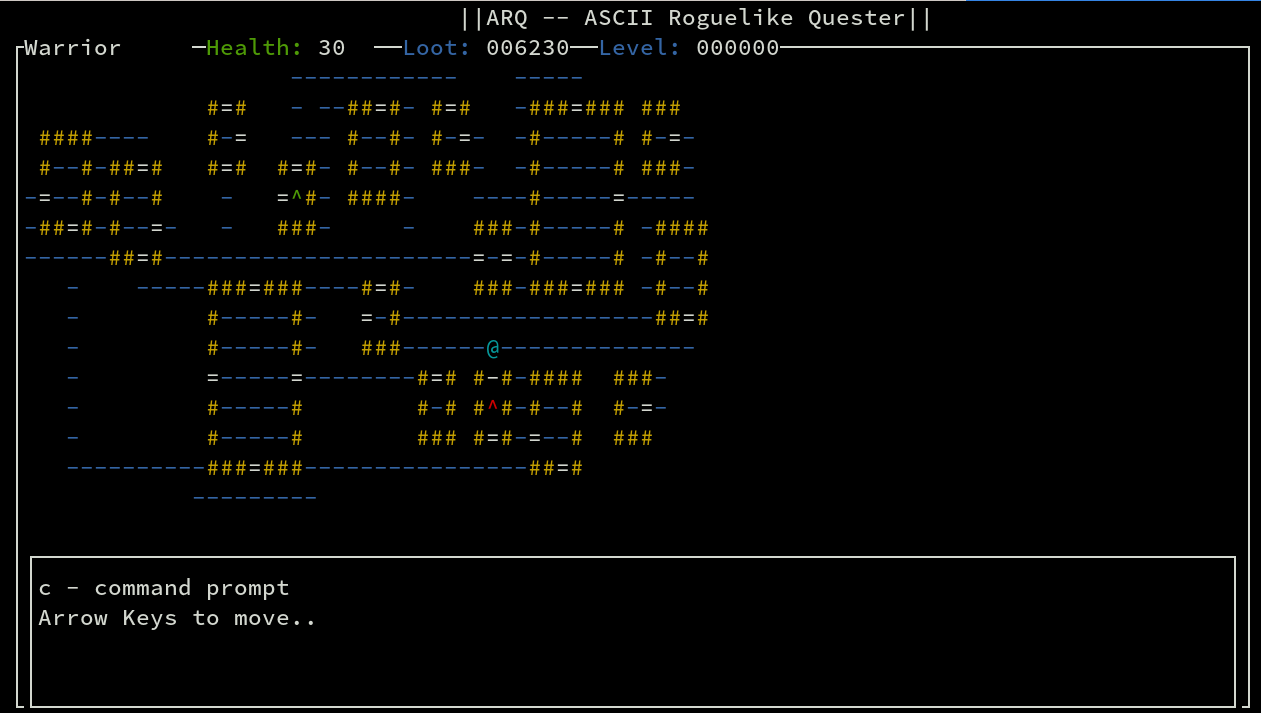
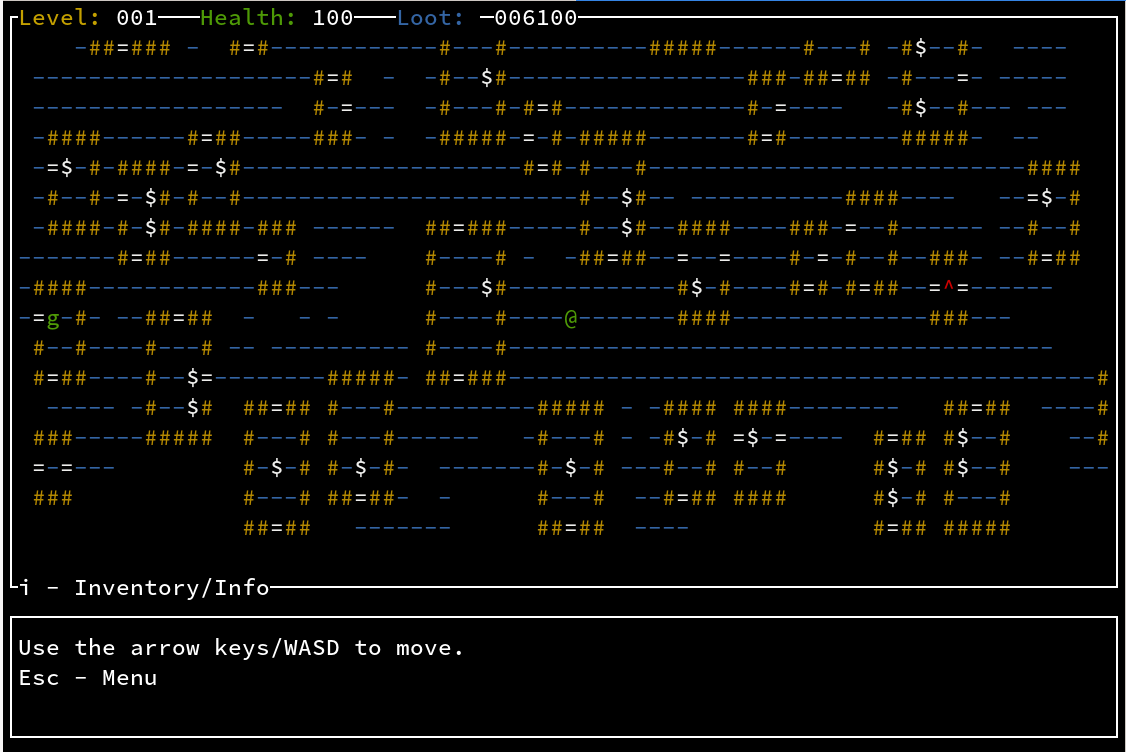
Update / merge the ARQ sections

diff --git a/site/projects.html b/site/projects.html
@@ -9,7 +9,7 @@
 <body>
   <div class="content-body">
     <h1>My Projects</h1>
-    <h2>ARQ (ASCII Roguelike Quester) - <a href="https://github.com/TheDarrenJoseph/ARQ/">GitHub</a></h2>
+    <h2>ARQ (ASCII Roguelike Quester) and ARQ-Rust</h2>
     <p>Back in 2013, I started on one of my first personal programming projects. <a href="https://github.com/TheDarrenJoseph/ARQ/">ARQ (ASCII Roguelike Quester)</a></p>
     <p>I had played a bit of <a href="https://www.nethack.org/">Nethack</a> and some other text-based games and wanted to dive into the technical challenges of creating something similar, while learning some C++ along the way.</p>
     <p>I've learned quite a lot while working on this, particularly: </p>
@@ -17,20 +17,26 @@
       <li>Procedural map generation (with some help from an old colleague: <a href="https://github.com/christopherjsmith">Christopher J Harvey-Smith</a>)</li>
       <li>curses/<a href="https://en.wikipedia.org/wiki/Ncurses">ncurses</a> for developing text-based user interfaces</li>
     </ul>
-    <p>As this was a learner project it got a little messy as time went on, and I started to get frustrated at working in C++. Due to this I eventually decided that I'd rather try rebuilding it in <a href="https://www.rust-lang.org/">Rust</a> instead.</p>
+    <p>As this was a learner project it got a little messy as time went on, and I started to get frustrated at working in C++.</p>
+    <p>In 2021, I learned about the Rust language for the first time. After reading about it, I could see it addressed some of my main frustrations around developing in C++, so I was excited to give it a go by porting/re-implementing ARQ.</p>
     <p>This is how <a href="https://github.com/TheDarrenJoseph/ARQ-Rust">ARQ-Rust</a> got started</p>
-    <p>Here are a few images from the most recent developer build. Please be aware I've never officially released ARQ, so they are very much WIP/Prototype examples just to give you an idea of the project:</p>
-    <img class="projects-image" src="img/arq-gameplay-1.png" alt="ARQ Gameplay, on the map view">
-    <img class="projects-image" src="img/arq-inventory.png" alt="ARQ Gameplay, in the inventory view">
-    <hr>
-    <h2>ARQ-Rust - <a href="https://github.com/TheDarrenJoseph/ARQ-Rust">GitHub</a></h2>
-    <p>In 2021, I learned about the Rust language for the first time. After reading about it, I was excited to give it a go as I could see it addressed some of my main frustrations around developing in C++.</p>
     <p>Why I prefer Rust to C++:</p>
     <ul>
       <li>The borrow checker - ownership/borrowing avoids the chance of accidental runtime pointer errors, and removes to need to worry about memory management too much</li>
       <li>Cargo - Rust's built-in package manager provides a complete dependency management / build system out-of-the-box instead of needing to roll your own dependencies/Makefiles/CMake setup</li>
       <li>Explicit mutable/immutable referencing - which helps you to be clear around your intentions and avoid side effects when designing structs/traits. This also prevents you from concurrently modifying data and forces you to think about where to pass references or where to clone data (data boundaries).</li>
+      <li>Built-in unit test support</li>
     </ul>
+    <p>Moving over to Rust went really well, and I was able to redesign quite a lot of things from the ground up, and make some improvements on the original:</p>
+    <ul>
+      <li>Display management, ARQ-Rust now uses a "View" (complete UI control, I/O looping) and "Framehandler" (Dumb view that draws a model to a screen frame) system</li>
+      <li>An improved start/settings menu with custom widgets</li>
+      <li>Music support</li>
+    </ul>
+    <p>This is still under development currently, here are some developmental screenshots to give an idea of the project:</p>
+    <img class="projects-image" src="img/arq-gameplay-1.png" alt="ARQ Gameplay, on the map view">
+    <img class="projects-image" src="img/arq-inventory.png" alt="ARQ Gameplay, in the inventory view">
+    <img class="projects-image" src="img/arq-settings.png" alt="ARQ Settings Menu, showing fog-of-war, map random seed, and music volume settings.">
     <hr>
     <h2>purses - <a href="https://github.com/TheDarrenJoseph/purses/tree/master">GitHub</a></h2>
     <p>purses (A portmanteau of PulseAudio and curses) is a text-based UI audio visualiser meant for Linux command-line usage</p>
